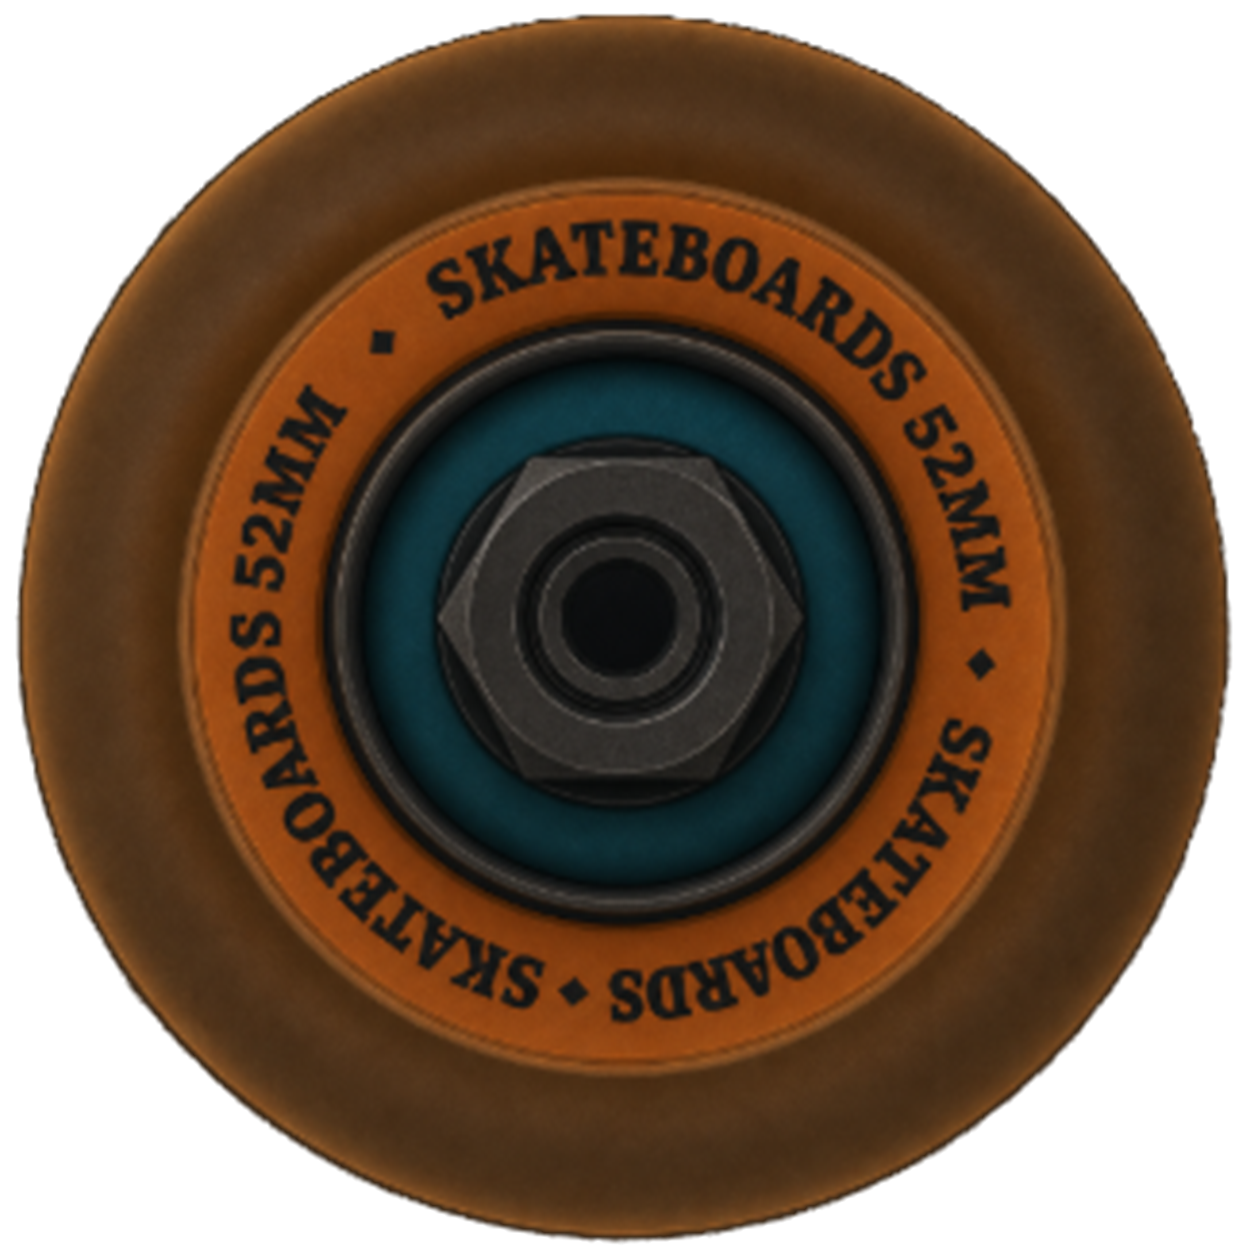
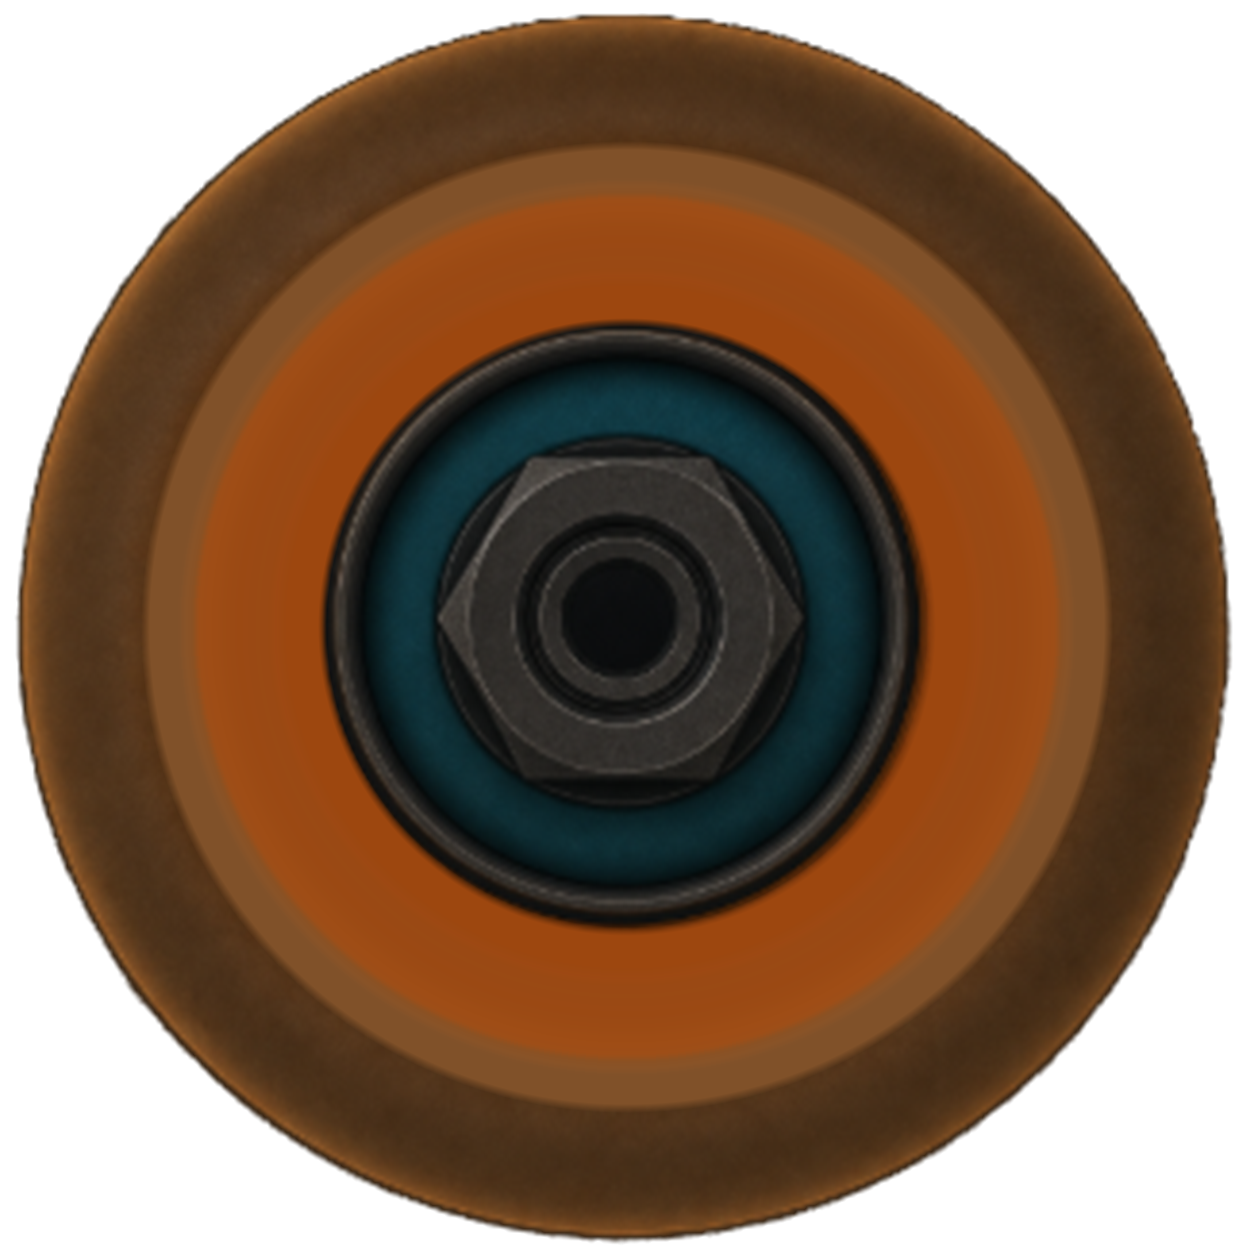
Add dynamic mobile wheel labels

Changed region(s): [[0.0933, 0.0933, 0.9019, 0.9019], [0.2799, 0.2488, 0.311, 0.2799]]

diff --git a/src/App.tsx b/src/App.tsx
@@ -14,6 +14,7 @@ import { useCallback, useEffect, useMemo, useRef, useState } from "react";
 
 const backgroundUrl = "/backgrounds/halfpipe-bg-04-skate-neon.png";
 const musicUrl = "/OPM%20Heaven%20Is%20a%20Halfpipe.mp3";
+const wheelLabelFadeMs = 190;
 const pathD =
   "M 180 375 C 178 560, 260 735, 436.5 827 C 590 907, 794 942, 980 940 C 1168 938, 1388 905, 1540.4 822.4 C 1690 741, 1735 555, 1733.5 384.5";
 
@@ -26,6 +27,14 @@ const sectionRoutePositions = {
   cv: 0.7743726596881803,
   contact: 1,
 } satisfies Record<SectionId, number>;
+
+const wheelSectionLabels = {
+  about: "ABOUT",
+  projects: "PROJECTS",
+  features: "FEATURES",
+  cv: "CURRICULUM VITAE",
+  contact: "CONTACT",
+} satisfies Record<SectionId, string>;
 
 type Section = {
   id: SectionId;
@@ -360,6 +369,9 @@ function App() {
   const activeSection = sections.find((section) => section.id === activeStop.sectionId) ?? sections[0];
   const activePanel = panelContent[activeSection.id][activeStop.panelIndex] ?? panelContent[activeSection.id][0];
   const activePanelCount = panelContent[activeSection.id].length;
+  const activeWheelLabel = wheelSectionLabels[activeSection.id];
+  const [displayedWheelLabel, setDisplayedWheelLabel] = useState(activeWheelLabel);
+  const [isWheelLabelVisible, setIsWheelLabelVisible] = useState(true);
 
   const updateTargetProgress = useCallback(() => {
     const maxScroll = document.documentElement.scrollHeight - window.innerHeight;
@@ -426,6 +438,22 @@ function App() {
       window.removeEventListener("wheel", startMusicOnInteraction);
     };
   }, [playMusic]);
+
+  useEffect(() => {
+    if (displayedWheelLabel === activeWheelLabel) {
+      setIsWheelLabelVisible(true);
+      return;
+    }
+
+    setIsWheelLabelVisible(false);
+
+    const swapTimeout = window.setTimeout(() => {
+      setDisplayedWheelLabel(activeWheelLabel);
+      window.requestAnimationFrame(() => setIsWheelLabelVisible(true));
+    }, wheelLabelFadeMs);
+
+    return () => window.clearTimeout(swapTimeout);
+  }, [activeWheelLabel, displayedWheelLabel]);
 
   useEffect(() => {
     updateTargetProgress();
@@ -543,6 +571,9 @@ function App() {
     return `${String(activeStop.panelIndex + 1).padStart(2, "0")} / ${String(activePanelCount).padStart(2, "0")}`;
   }, [activePanelCount, activeStop.panelIndex]);
   const mobileWheelProgress = clamp(motion.scrollProgress, 0, 1);
+  const wheelLabelClassName = `mobile-wheel-label ${isWheelLabelVisible ? "is-visible" : ""} ${
+    displayedWheelLabel.length > 10 ? "is-long" : ""
+  }`;
 
   return (
     <main
@@ -846,7 +877,31 @@ function App() {
             className="mobile-wheel-control"
             aria-hidden="true"
           >
-            <img className="mobile-wheel-image" src="/backgrounds/skate_wheel_scroll.png" alt="" draggable="false" />
+            <div className="mobile-wheel-rotor">
+              <img className="mobile-wheel-image" src="/backgrounds/skate_wheel_scroll.png" alt="" draggable="false" />
+              <svg className={wheelLabelClassName} viewBox="0 0 100 100" focusable="false">
+                <defs>
+                  <path
+                    id="mobile-wheel-label-path"
+                    d="M 50 15.5 A 34.5 34.5 0 1 1 49.9 15.5 A 34.5 34.5 0 1 1 50 15.5"
+                  />
+                </defs>
+                <text>
+                  {[0, 1, 2].map((repeatIndex) => (
+                    <textPath
+                      href="#mobile-wheel-label-path"
+                      key={`wheel-label-${repeatIndex}`}
+                      startOffset={`${repeatIndex * 33.333}%`}
+                    >
+                      {displayedWheelLabel}
+                      <tspan className="mobile-wheel-label-separator" dx="2.2">
+                        ◆
+                      </tspan>
+                    </textPath>
+                  ))}
+                </text>
+              </svg>
+            </div>
           </div>
 
           <div className="mobile-showcase-stack">

diff --git a/src/styles.css b/src/styles.css
@@ -1028,6 +1028,14 @@ a {
     -webkit-user-select: none;
   }
 
+  .mobile-wheel-rotor {
+    position: absolute;
+    inset: 0;
+    transform: rotate(var(--mobile-wheel-rotation));
+    transform-origin: 50% 50%;
+    transition: transform 180ms ease-out;
+  }
+
   .mobile-wheel-image {
     position: absolute;
     inset: 0;
@@ -1037,8 +1045,41 @@ a {
     height: 100%;
     border-radius: 50%;
     object-fit: cover;
-    transform: rotate(var(--mobile-wheel-rotation));
-    transition: transform 180ms ease-out;
+  }
+
+  .mobile-wheel-label {
+    position: absolute;
+    inset: 0;
+    z-index: 1;
+    width: 100%;
+    height: 100%;
+    fill: #111314;
+    font-family: "Rockwell Extra Bold", Rockwell, Georgia, "Times New Roman", serif;
+    font-size: 6.1px;
+    font-weight: 950;
+    letter-spacing: 0.08em;
+    opacity: 0;
+    overflow: visible;
+    pointer-events: none;
+    text-transform: uppercase;
+    transition: opacity 190ms ease;
+  }
+
+  .mobile-wheel-label.is-visible {
+    opacity: 1;
+  }
+
+  .mobile-wheel-label.is-long {
+    font-size: 4.55px;
+    letter-spacing: 0.055em;
+  }
+
+  .mobile-wheel-label text {
+    dominant-baseline: middle;
+  }
+
+  .mobile-wheel-label-separator {
+    font-size: 0.72em;
   }
 
   .mobile-content-body {
